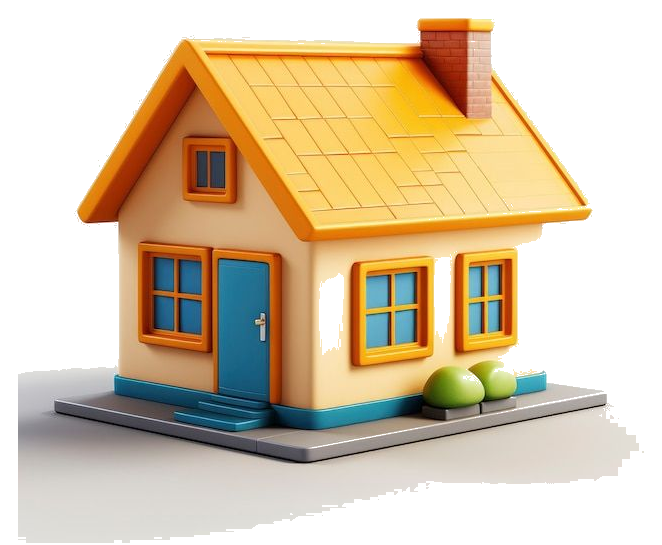
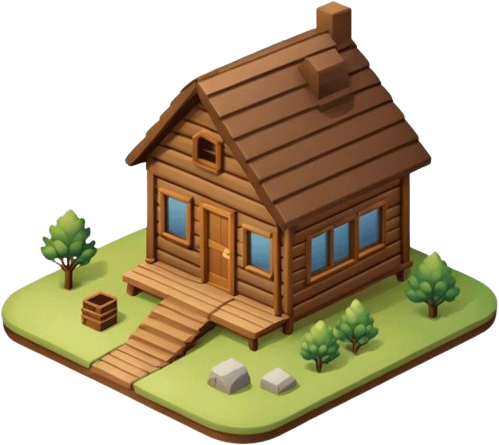
Replace Kids Village Map school, house, and teacher's house art
Swaps class-house1.png, home-brickbuilding.png, and messages-teacherhome.png
for new isometric building art, recalculating each building's heightPct to
match its new aspect ratio so the ground-anchor stays pixel-accurate.

Claude-Session: https://claude.ai/code/session_01BweQMBqqcQUeUb58AUkNES

diff --git a/src/components/VillageMap.tsx b/src/components/VillageMap.tsx
@@ -29,14 +29,14 @@ interface Building {
 // lawn (My House), and open lawn near the flower bed, shared by Ears for You and Game
 // (My Teacher's spot is open lawn by the willow tree).
 const BUILDINGS: Building[] = [
-  { id: 'class', label: 'My Class', image: '/village/class-house1.png', x: 34, y: 18, width: 15, heightPct: 6.9, tilt: -4, accent: 'var(--lp-accent-class)' },
+  { id: 'class', label: 'My Class', image: '/village/class-house1.png', x: 34, y: 18, width: 15, heightPct: 8.4, tilt: -4, accent: 'var(--lp-accent-class)' },
   { id: 'leaderboard', label: 'Leaderboard', image: '/feature-leaderboard.png', x: 77, y: 87, width: 16, heightPct: 10.6, tilt: 5, accent: 'var(--lp-accent-leaderboard)' },
   { id: 'profile', label: 'My Card', image: '/village/profile-card.png', x: 38, y: 48, width: 16, heightPct: 9.1, tilt: -6, accent: 'var(--lp-accent-achievements)' },
   { id: 'bible', label: 'Bible', image: '/village/bible-book.png', x: 81, y: 59, width: 22, heightPct: 13.0, tilt: 3, accent: 'var(--lp-accent-bible)' },
-  { id: 'home', label: 'My House', image: '/village/home-brickbuilding.png', x: 33, y: 79, width: 28, heightPct: 17.4, tilt: -3, accent: 'var(--hero-accent)' },
+  { id: 'home', label: 'My House', image: '/village/home-brickbuilding.png', x: 33, y: 79, width: 28, heightPct: 14.2, tilt: -3, accent: 'var(--hero-accent)' },
   { id: 'ears', label: 'Ears for You', image: '/village/ears-hearttree.png', x: 17, y: 20, width: 13, heightPct: 8.0, tilt: -5, accent: 'var(--lp-accent-ears)' },
   { id: 'game', label: 'Games', image: '/village/game-rocket.png', x: 73, y: 31, width: 24, heightPct: 13.1, tilt: -5, accent: 'var(--lp-accent-compete)' },
-  { id: 'messages', label: 'My Teacher', image: '/village/messages-teacherhome.png', x: 75, y: 17, width: 18, heightPct: 8.3, tilt: 4, accent: 'var(--lp-accent-training)' },
+  { id: 'messages', label: 'My Teacher', image: '/village/messages-teacherhome.png', x: 75, y: 17, width: 18, heightPct: 8.9, tilt: 4, accent: 'var(--lp-accent-training)' },
 ]
 
 const BY_ID = Object.fromEntries(BUILDINGS.map((b) => [b.id, b])) as Record<VillageTab, Building>
